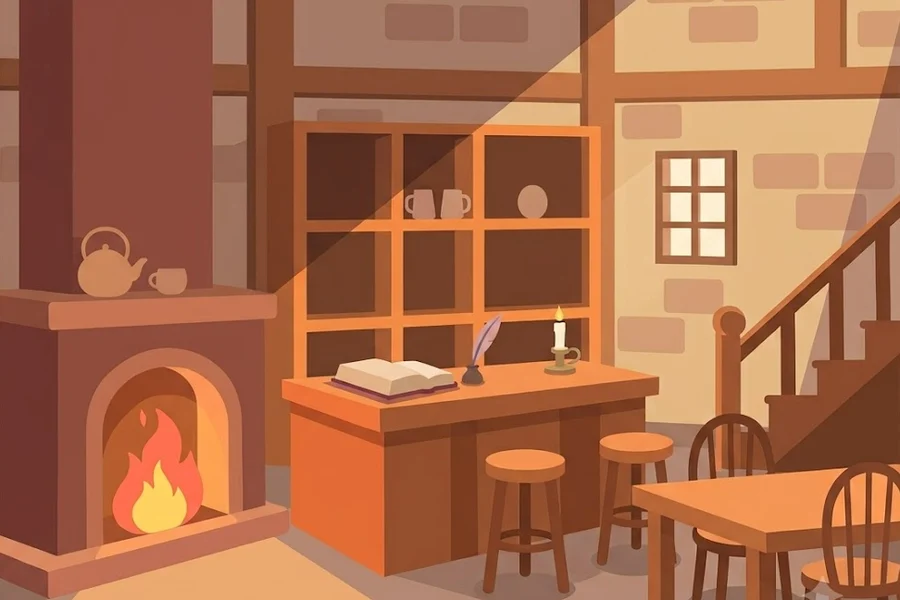
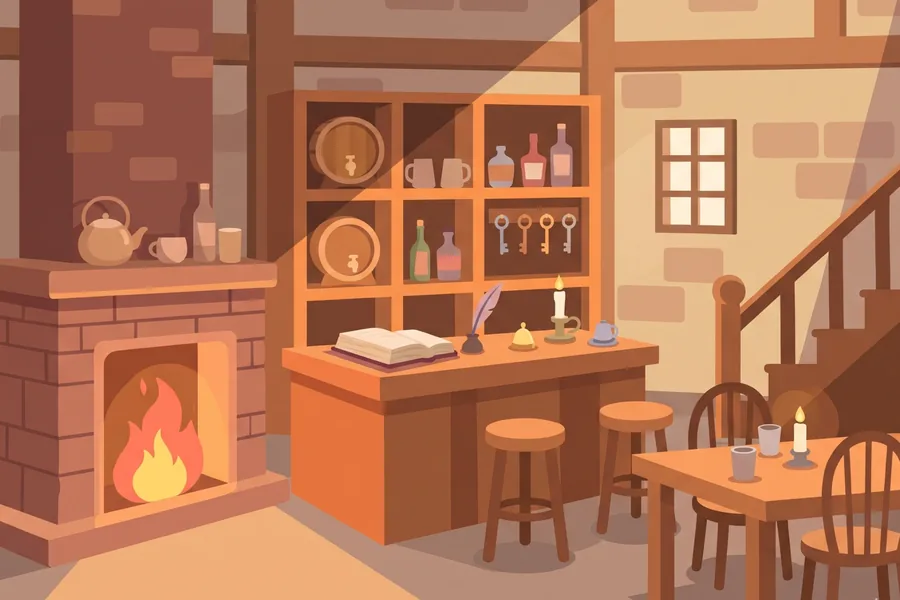
여관 안을 새로 받은 그림으로 바꾸고 불 자리를 다시 맞춘다
Claude-Session: https://claude.ai/code/session_01RZe6NgtUbyn7nAqzQfcGca

diff --git a/index.html b/index.html
@@ -13,11 +13,11 @@
 <link rel="preconnect" href="https://fonts.googleapis.com">
 <link rel="preconnect" href="https://fonts.gstatic.com" crossorigin>
 <link href="https://fonts.googleapis.com/css2?family=Noto+Sans+KR:wght@400;500;700;800;900&display=swap" rel="stylesheet">
-<link rel="stylesheet" href="style.css?v=20261019z">
+<link rel="stylesheet" href="style.css?v=20261020a">
 <!-- ⚠ UI 색상은 «첫 페인트 전»에 정해져야 한다 — 문서 끝에 두면 기본 색으로
      한 번 그려진 뒤에 얹혀서 다크를 고른 사람에게 흰 화면이 한 번 친다.
      그래서 여기만 `defer` 없이 `<head>` 에서 읽는다 (theme.js 주석 참고) -->
-<script src="theme.js?v=20261019z"></script>
+<script src="theme.js?v=20261020a"></script>
 </head>
 <body>
 
@@ -54,7 +54,7 @@
 <div id="splash" class="splash">
   <div class="splash-inner">
     <!-- 로고 이미지(logo.png)가 있으면 그것을 사용, 없으면 아래 SVG로 자동 폴백 -->
-    <img id="splashLogoImg" class="splash-logo" src="logo.png?v=20261019z" alt="Dream Syndicate Studio"
+    <img id="splashLogoImg" class="splash-logo" src="logo.png?v=20261020a" alt="Dream Syndicate Studio"
          onerror="this.remove(); var f=document.getElementById('splashLogoSvg'); if(f) f.style.display='block';">
     <svg id="splashLogoSvg" class="splash-logo" style="display:none" viewBox="0 0 240 240" xmlns="http://www.w3.org/2000/svg" role="img" aria-label="Dream Syndicate Studio">
       <defs>
@@ -1289,38 +1289,38 @@
 <!-- ── 토스트 ── -->
 <div id="toast" class="toast"></div>
 
-<script src="i18n.js?v=20261019z"></script>
-<script src="intro.js?v=20261019z"></script>
-<script src="data.js?v=20261019z"></script>
+<script src="i18n.js?v=20261020a"></script>
+<script src="intro.js?v=20261020a"></script>
+<script src="data.js?v=20261020a"></script>
 <!-- ⚠⚠ **`roomart.js` 는 «모듈보다 먼저»** 와야 한다. 방과 소품의 그림이 여기
      한 곳에 있고, 3D 방(room3d.js · ES 모듈)이 `window.RoomArt` 로 그것을 읽는다 —
      SVG 폴백(avatar.js)도 같은 캔버스를 data URL 로 쓴다.
      (평범한 스크립트가 모듈보다 먼저 도는 것이 규칙이지만, 순서로도 적어 둔다) -->
-<script src="roomart.js?v=20261019z"></script>
-<script src="crouchart.js?v=20261019z"></script>
-<script src="earart.js?v=20261019z"></script>
-<script src="avatar.js?v=20261019z"></script>
-<script src="village.js?v=20261019z"></script>
-<script src="portrait.js?v=20261019z"></script>
+<script src="roomart.js?v=20261020a"></script>
+<script src="crouchart.js?v=20261020a"></script>
+<script src="earart.js?v=20261020a"></script>
+<script src="avatar.js?v=20261020a"></script>
+<script src="village.js?v=20261020a"></script>
+<script src="portrait.js?v=20261020a"></script>
 <!-- 애교 모션의 리그. **`creature.js` 가 그릴 때 읽으므로 그보다 먼저** 둔다
      (없어도 게임은 돈다 — 그때는 크리처가 가만히 서 있다) -->
-<script src="petidle.js?v=20261019z"></script>
-<script src="creature.js?v=20261019z"></script>
-<script src="cauldron.js?v=20261019z"></script>
-<script src="pumpkin.js?v=20261019z"></script>
-<script src="walnut.js?v=20261019z"></script>
-<script src="rock.js?v=20261019z"></script>
-<script src="fish.js?v=20261019z"></script>
-<script src="sparrow.js?v=20261019z"></script>
-<script src="pinwheel.js?v=20261019z"></script>
-<script src="driller.js?v=20261019z"></script>
-<script src="sfx.js?v=20261019z"></script>
-<script src="sync.js?v=20261019z"></script>
+<script src="petidle.js?v=20261020a"></script>
+<script src="creature.js?v=20261020a"></script>
+<script src="cauldron.js?v=20261020a"></script>
+<script src="pumpkin.js?v=20261020a"></script>
+<script src="walnut.js?v=20261020a"></script>
+<script src="rock.js?v=20261020a"></script>
+<script src="fish.js?v=20261020a"></script>
+<script src="sparrow.js?v=20261020a"></script>
+<script src="pinwheel.js?v=20261020a"></script>
+<script src="driller.js?v=20261020a"></script>
+<script src="sfx.js?v=20261020a"></script>
+<script src="sync.js?v=20261020a"></script>
 <!-- 방을 3D 로 그리는 모듈. **모듈이라 미뤄져 실행된다** — 그래서 게임은
      이것이 «없어도» 돈다 (SVG 방 그대로). 준비되면 room3d-ready 로 알린다 -->
-<script type="module" src="room3d.js?v=20261019z"></script>
-<script src="game.js?v=20261019z"></script>
-<script src="tutorial.js?v=20261019z"></script>
-<script src="a11y.js?v=20261019z"></script>
+<script type="module" src="room3d.js?v=20261020a"></script>
+<script src="game.js?v=20261020a"></script>
+<script src="tutorial.js?v=20261020a"></script>
+<script src="a11y.js?v=20261020a"></script>
 </body>
 </html>

diff --git a/data.js b/data.js
@@ -1606,7 +1606,7 @@ const VILLAGES = [
       { id: 'vs_chimney_cottage', emoji: '🏠', name: '일곱 오두막',  shape: 'house', x: 24, y: 80, art: 'villages/in-cottage.webp', fire: [69, 148, 16], lamps: [[132, 15, 11], [285, 10, 11], [185, 41, 9], [107, 75, 9], [160, 124, 6]] },
       { id: 'vs_chimney_forge',   emoji: '⚒', name: '대장간',       shape: 'forge', x: 83, y: 37, npc: 'sp_orix', art: 'villages/in-forge.webp', fire: [53, 171, 26] },
       // 카이로스는 떠도는 사람이라 거처가 없다 — 오늘은 여기 있다
-      { id: 'vs_chimney_inn',     emoji: '🛖', name: '여관',         shape: 'house', x: 53, y: 31, npc: 'sp_kairos', trade: false, art: 'villages/in-inn.webp', fire: [53, 176, 27] },
+      { id: 'vs_chimney_inn',     emoji: '🛖', name: '여관',         shape: 'house', x: 53, y: 31, npc: 'sp_kairos', trade: false, art: 'villages/in-inn.webp', fire: [52, 167, 30] },
       { id: 'vs_chimney_shop',    emoji: '🧺', name: '상점',         shape: 'shop',  x: 56, y: 54, art: 'villages/in-shop.webp' },
       { id: 'vs_chimney_mine',    emoji: '⛏', name: '광산',         shape: 'mine',  x: 20, y: 28, art: 'villages/in-mine.webp', lamps: [[132, 37, 12], [108, 93, 10], [185, 62, 9], [283, 31, 12]] },
       { id: 'vs_chimney_lab',     emoji: '⚗', name: '공방',         shape: 'lab',   x: 84, y: 71 },
